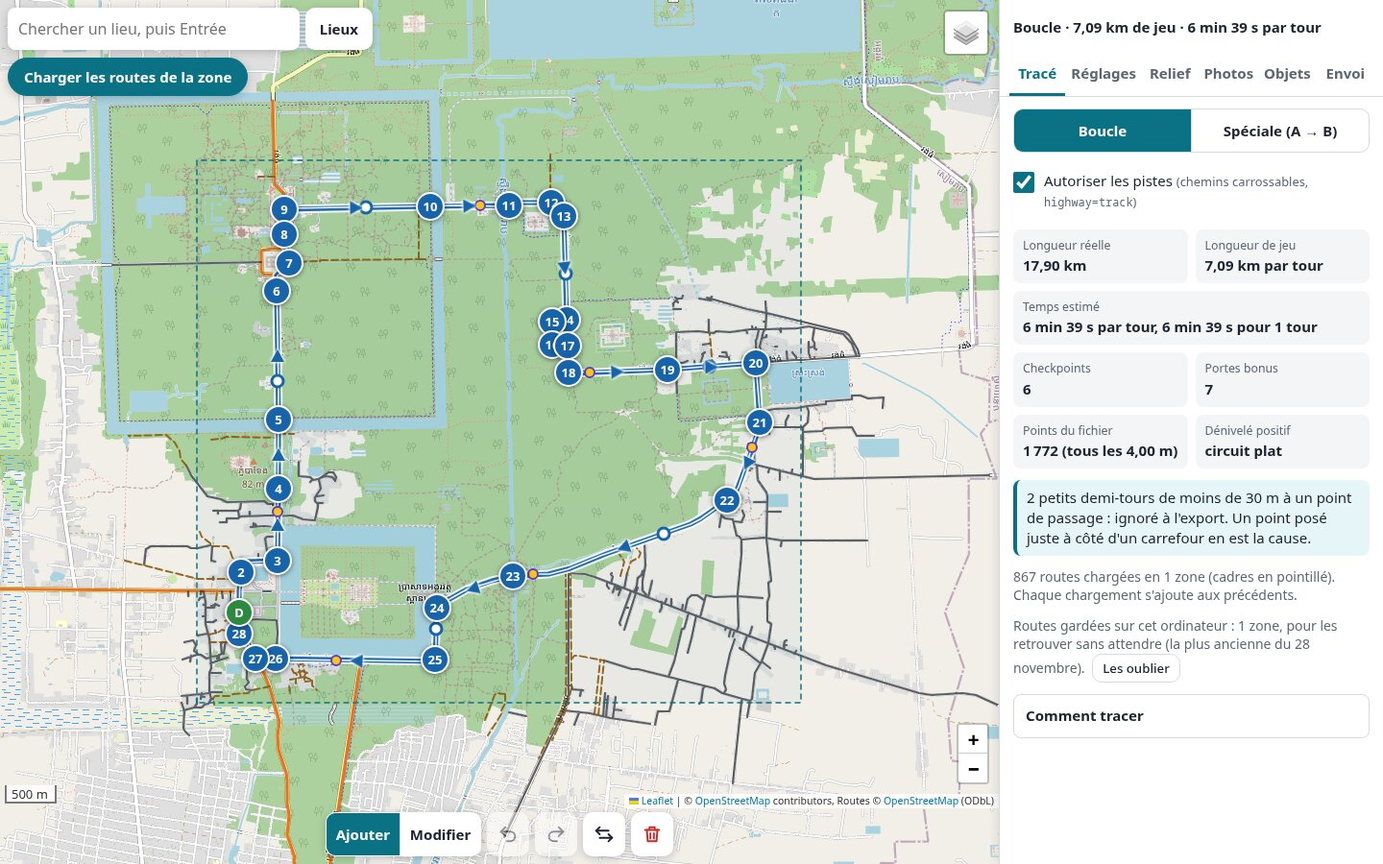
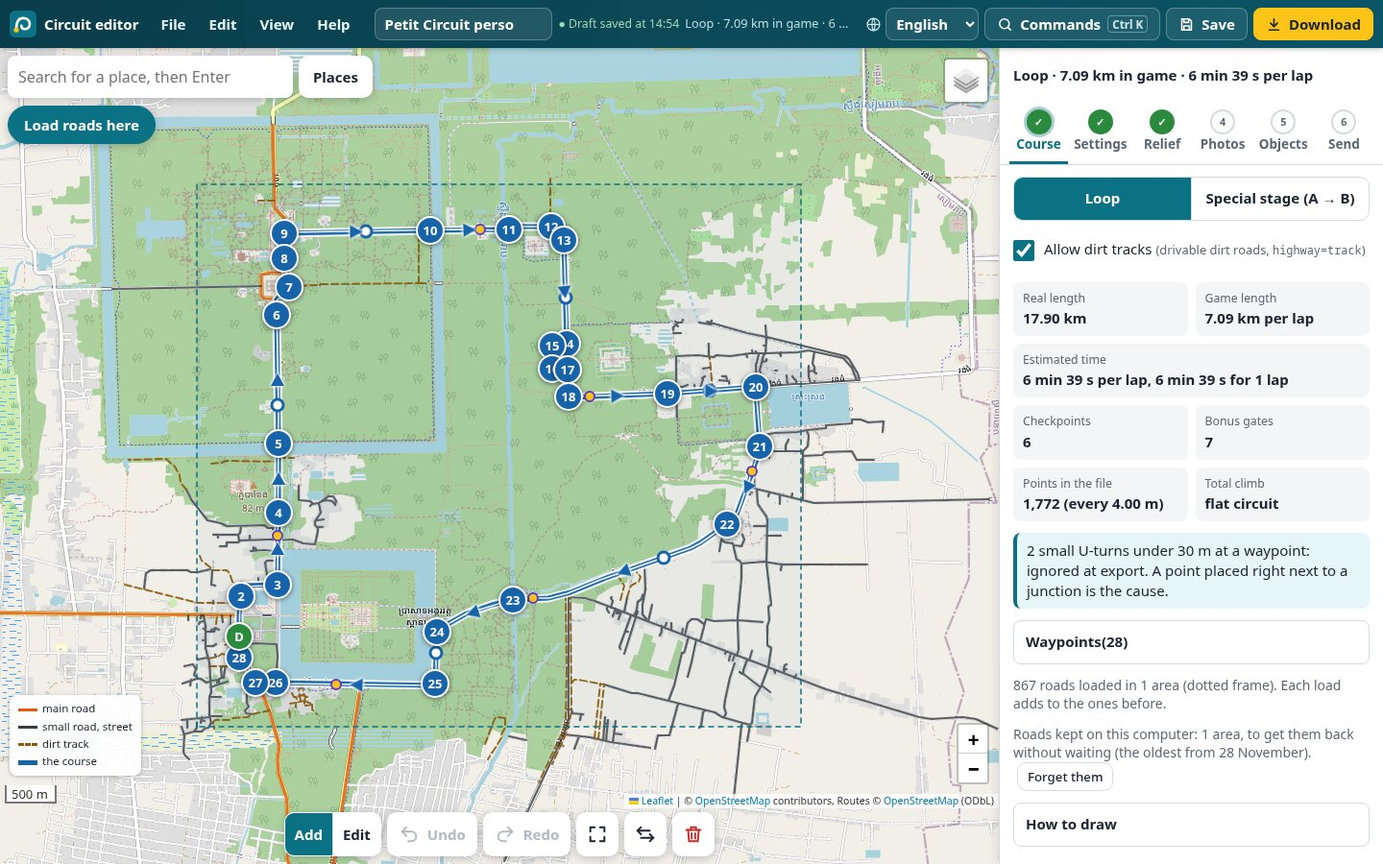
Circuit editor page: the editor in three languages, with its new screen
The editor merged this afternoon (PR #3) speaks French, English and
Khmer and has a menu bar, a command search, numbered steps, a list of
waypoints and a welcome card. The page says so in a new section, The
screen, and in a new Last change; the page file is now about 7,300
lines with i18n.js beside it. The three captures are taken again from
the published editor, in English, and a fourth shows it in Khmer.

diff --git a/projects/circuit-editor.html b/projects/circuit-editor.html
@@ -4,7 +4,7 @@
 <meta charset="UTF-8">
 <meta name="viewport" content="width=device-width, initial-scale=1.0">
 <meta name="theme-color" content="#080b12">
-<meta name="description" content="Circuit editor: a web page to draw a racing circuit on the real roads of OpenStreetMap and send it to 3D Buggy. The course follows the roads between the points you click, with the real relief, the real place's buildings, water and land cover, photos taken along the way and the game's 379 scenery objects placed by hand; one HTML file, no build step, 134 tests.">
+<meta name="description" content="Circuit editor: a web page to draw a racing circuit on the real roads of OpenStreetMap and send it to 3D Buggy. The course follows the roads between the points you click, with the real relief, the real place's buildings, water and land cover, photos taken along the way and the game's 379 scenery objects placed by hand; in French, English and Khmer, no build step, 134 tests.">
 <title data-en="Circuit editor, real roads for 3D Buggy — Chantrea Systems" data-fr="Éditeur de circuits, de vraies routes pour 3D Buggy — Chantrea Systems" data-km="កម្មវិធីគូរសៀគ្វី ផ្លូវពិតសម្រាប់ 3D Buggy — Chantrea Systems">Circuit editor, real roads for 3D Buggy — Chantrea Systems</title>
 <link rel="icon" type="image/svg+xml" href="../assets/logo/favicon.svg">
 <link rel="preconnect" href="https://fonts.googleapis.com">
@@ -24,17 +24,17 @@
 <div class="kicker"><span data-l="en">In development</span><span data-l="fr">En développement</span><span data-l="km">កំពុងអភិវឌ្ឍ</span> / 04</div>
 <h1><span data-l="en">Circuit editor</span><span data-l="fr">Éditeur de circuits</span><span data-l="km">កម្មវិធីគូរសៀគ្វី</span></h1>
 <div class="alias">tools/circuit-editor · <span data-l="en">for 3D Buggy</span><span data-l="fr">pour 3D Buggy</span><span data-l="km">សម្រាប់ 3D Buggy</span></div>
-<p class="lead" data-l="en">A web page to draw a racing circuit on the real roads of Cambodia and send it to the game. You click waypoints on the map; between them the course follows the shortest way along OpenStreetMap’s roads, then it is smoothed, given the real relief and written as a <code>.cambotrack.json</code> file that 3D Buggy builds and lets you race. The file can also carry what the real place looks like — its buildings, water and land cover, read from Overture Maps — photos taken along the way, and objects of the game’s own scenery placed by hand on the map: houses on stilts, palms, stalls, pagodas, tuk-tuks, 379 in all. One HTML file, no framework and no build step, made for a computer’s browser.</p>
-<p class="lead" data-l="fr">Une page web pour dessiner un circuit de course sur les vraies routes du Cambodge et l’envoyer au jeu. On clique des points de passage sur la carte ; entre eux, le tracé prend le plus court chemin par les routes d’OpenStreetMap, puis il est lissé, reçoit le relief réel et devient un fichier <code>.cambotrack.json</code> que 3D Buggy construit et fait courir. Le fichier peut aussi porter l’allure du lieu réel — ses bâtiments, son eau et la couverture du sol, lus dans Overture Maps —, des photos prises en chemin, et des objets du décor du jeu posés à la main sur la carte : maisons sur pilotis, palmiers, étals, pagodes, tuk-tuks, 379 en tout. Un seul fichier HTML, sans framework ni compilation, fait pour le navigateur d’un ordinateur.</p>
-<p class="lead" data-l="km">ទំព័រវិបមួយ សម្រាប់គូរសៀគ្វីប្រណាំង លើផ្លូវពិតនៃប្រទេសកម្ពុជា ហើយផ្ញើវាទៅហ្គេម។ អ្នកចុចចំណុចឆ្លងកាត់លើផែនទី ហើយរវាងចំណុចទាំងនោះ ផ្លូវប្រណាំងដើរតាមផ្លូវខ្លីបំផុត លើផ្លូវថ្នល់របស់ OpenStreetMap បន្ទាប់មកវាត្រូវបានធ្វើឱ្យរលោង ទទួលបានភូមិសាស្ត្រកម្ពស់ពិត ហើយសរសេរជាឯកសារ <code>.cambotrack.json</code> ដែល 3D Buggy សាងសង់ និងឱ្យអ្នកប្រណាំង។ ឯកសារនេះក៏អាចផ្ទុករូបរាងនៃទីកន្លែងពិត — អគារ ទឹក និងគម្របដីរបស់វា ដែលអានពី Overture Maps — រូបថតដែលថតតាមផ្លូវ និងវត្ថុនៃទេសភាពរបស់ហ្គេម ដែលដាក់ដោយដៃលើផែនទី៖ ផ្ទះលើសសរ ដើមត្នោត តូប វត្ត រ៉ឺម៉ក សរុប 379។ ឯកសារ HTML តែមួយ គ្មាន framework និងគ្មានការ compile ដែលធ្វើឡើងសម្រាប់ browser របស់កុំព្យូទ័រ។</p>
+<p class="lead" data-l="en">A web page to draw a racing circuit on the real roads of Cambodia and send it to the game. You click waypoints on the map; between them the course follows the shortest way along OpenStreetMap’s roads, then it is smoothed, given the real relief and written as a <code>.cambotrack.json</code> file that 3D Buggy builds and lets you race. The file can also carry what the real place looks like — its buildings, water and land cover, read from Overture Maps — photos taken along the way, and objects of the game’s own scenery placed by hand on the map: houses on stilts, palms, stalls, pagodas, tuk-tuks, 379 in all. It speaks French, English and Khmer; one HTML page with no framework and no build step, made for a computer’s browser.</p>
+<p class="lead" data-l="fr">Une page web pour dessiner un circuit de course sur les vraies routes du Cambodge et l’envoyer au jeu. On clique des points de passage sur la carte ; entre eux, le tracé prend le plus court chemin par les routes d’OpenStreetMap, puis il est lissé, reçoit le relief réel et devient un fichier <code>.cambotrack.json</code> que 3D Buggy construit et fait courir. Le fichier peut aussi porter l’allure du lieu réel — ses bâtiments, son eau et la couverture du sol, lus dans Overture Maps —, des photos prises en chemin, et des objets du décor du jeu posés à la main sur la carte : maisons sur pilotis, palmiers, étals, pagodes, tuk-tuks, 379 en tout. Il parle français, anglais et khmer ; une seule page HTML, sans framework ni compilation, faite pour le navigateur d’un ordinateur.</p>
+<p class="lead" data-l="km">ទំព័រវិបមួយ សម្រាប់គូរសៀគ្វីប្រណាំង លើផ្លូវពិតនៃប្រទេសកម្ពុជា ហើយផ្ញើវាទៅហ្គេម។ អ្នកចុចចំណុចឆ្លងកាត់លើផែនទី ហើយរវាងចំណុចទាំងនោះ ផ្លូវប្រណាំងដើរតាមផ្លូវខ្លីបំផុត លើផ្លូវថ្នល់របស់ OpenStreetMap បន្ទាប់មកវាត្រូវបានធ្វើឱ្យរលោង ទទួលបានភូមិសាស្ត្រកម្ពស់ពិត ហើយសរសេរជាឯកសារ <code>.cambotrack.json</code> ដែល 3D Buggy សាងសង់ និងឱ្យអ្នកប្រណាំង។ ឯកសារនេះក៏អាចផ្ទុករូបរាងនៃទីកន្លែងពិត — អគារ ទឹក និងគម្របដីរបស់វា ដែលអានពី Overture Maps — រូបថតដែលថតតាមផ្លូវ និងវត្ថុនៃទេសភាពរបស់ហ្គេម ដែលដាក់ដោយដៃលើផែនទី៖ ផ្ទះលើសសរ ដើមត្នោត តូប វត្ត រ៉ឺម៉ក សរុប 379។ វានិយាយភាសាបារាំង អង់គ្លេស និងខ្មែរ ជាទំព័រ HTML តែមួយ គ្មាន framework និងគ្មានការ compile ដែលធ្វើឡើងសម្រាប់ browser របស់កុំព្យូទ័រ។</p>
 <div class="tags"><span class="tag p">Web</span><span class="tag t" data-l="en">Games</span><span class="tag t" data-l="fr">Jeux</span><span class="tag t" data-l="km">ហ្គេម</span><span class="tag">JavaScript</span><span class="tag">Leaflet</span><span class="tag">OpenStreetMap</span><span class="tag">Overture Maps</span></div>
 <div class="actions"><a class="btn primary" href="../tools/circuit-editor/" target="_blank" rel="noopener"><span data-l="en">Open the editor</span><span data-l="fr">Ouvrir l’éditeur</span><span data-l="km">បើកកម្មវិធីគូរ</span> ↗</a><a class="btn secondary" href="https://github.com/stefan-cambodia/stefan-cambodia.github.io/tree/main/tools/circuit-editor" target="_blank" rel="noopener noreferrer"><span data-l="en">View the source</span><span data-l="fr">Voir le code</span><span data-l="km">មើលកូដ</span> ↗</a><a class="btn secondary" href="../history/circuit-editor.html"><span data-l="en">History</span><span data-l="fr">Historique</span><span data-l="km">ប្រវត្តិ</span> →</a></div>
 </div>
 
-<div class="shot"><img src="../assets/screenshots/circuit-editor/petit-circuit.jpg" width="1440" height="900" alt="The circuit editor with the Petit Circuit of Angkor: 28 waypoints on OpenStreetMap’s roads, 7.09 km of game a lap, its checkpoints, bonus gates and warnings in the side panel"></div>
+<div class="shot"><img src="../assets/screenshots/circuit-editor/petit-circuit.jpg" width="1440" height="900" alt="The circuit editor in English with the Petit Circuit of Angkor: the menu bar, 28 waypoints on OpenStreetMap’s roads, the legend of the roads, and in the panel the six numbered steps, 7.09 km of game a lap, checkpoints, bonus gates and warnings"></div>
 
 <div class="stats">
-<div class="stat"><strong>1</strong><span data-l="en">HTML file, no build step</span><span data-l="fr">Fichier HTML, sans compilation</span><span data-l="km">ឯកសារ HTML គ្មានការ compile</span></div>
+<div class="stat"><strong>3</strong><span data-l="en">Languages: French, English, Khmer</span><span data-l="fr">Langues : français, anglais, khmer</span><span data-l="km">ភាសា៖ បារាំង អង់គ្លេស ខ្មែរ</span></div>
 <div class="stat"><strong>379</strong><span data-l="en">Game objects to place</span><span data-l="fr">Objets du jeu à poser</span><span data-l="km">វត្ថុរបស់ហ្គេម សម្រាប់ដាក់</span></div>
 <div class="stat"><strong>−0.15 %</strong><span data-l="en">Petit Circuit redrawn</span><span data-l="fr">Petit Circuit redessiné</span><span data-l="km">Petit Circuit គូរឡើងវិញ</span></div>
 <div class="stat"><strong>134</strong><span data-l="en">Tests, and one in a browser</span><span data-l="fr">Tests, et un dans un navigateur</span><span data-l="km">ការធ្វើតេស្ត និងមួយក្នុង browser</span></div>
@@ -57,6 +57,13 @@
 <tr><td>Send</td><td>« Envoyer au jeu » writes the file into <code>tracks/</code> on this site and updates the catalogue, through GitHub’s API with a fine-grained token limited to this one repository; the token is never written into a file. A circuit can also be downloaded, copied, and opened again later: if the map has not changed, it comes out the same, hash included.</td></tr>
 <tr><td>Play</td><td>In 3D Buggy, « Circuits perso → Actualiser ». A first publication showed on both addresses the game reads in under a minute, the site’s build included.</td></tr>
 </table></div>
+</section>
+
+<section>
+<div class="kicker">The screen</div>
+<h2>Menus, commands and six steps.</h2>
+<p>A menu bar holds File, Edit, View and Help, with the circuit’s name, Save and Download beside them, and <kbd>Ctrl</kbd>+<kbd>K</kbd> opens a command search: type what you want to do, « satellite » or « download », then Enter. The panel’s steps are numbered from 1, Course, to 6, Send, and each is ticked once done; « Next » leads from one to the other, and Send first says whether the circuit is ready or what is missing. On an empty map a welcome card gives the three first gestures; once the roads are there, a line says where to click and a legend gives the colours of the roads. The waypoints are listed with their distance from the start, a right click on the map offers what can be done at that spot, a message that can be undone carries its own Undo button, and <kbd>?</kbd> shows every shortcut.</p>
+<p>The interface exists in French, English and Khmer, chosen from the globe in the bar or taken from the browser’s language; the names of the 379 objects and their families are translated too, and searching finds the words of the chosen language. The file written does not change with the language.</p>
 </section>
 
 <section>
@@ -108,6 +115,13 @@
 </section>
 
 <section>
+<div class="kicker">L’écran</div>
+<h2>Des menus, des commandes et six étapes.</h2>
+<p>Une barre de menus tient Fichier, Édition, Affichage et Aide, avec à côté le nom du circuit, Garder et Télécharger, et <kbd>Ctrl</kbd>+<kbd>K</kbd> ouvre une recherche de commandes : taper ce qu’on veut faire, « satellite » ou « télécharger », puis Entrée. Les étapes du panneau sont numérotées de 1, Tracé, à 6, Envoi, et chacune est cochée une fois faite ; « Suivant » mène de l’une à l’autre, et l’Envoi dit d’abord si le circuit est prêt ou ce qui manque. Sur une carte vide, une carte d’accueil donne les trois premiers gestes ; une fois les routes là, une ligne dit où cliquer et une légende donne les couleurs des routes. Les points de passage sont listés avec leur distance depuis le départ, un clic droit sur la carte propose ce qu’on peut faire à cet endroit, un message qui peut être annulé porte son propre bouton Annuler, et <kbd>?</kbd> montre tous les raccourcis.</p>
+<p>L’interface existe en français, en anglais et en khmer, choisie depuis le globe de la barre ou prise dans la langue du navigateur ; les noms des 379 objets et de leurs familles sont traduits aussi, et la recherche trouve les mots de la langue choisie. Le fichier écrit ne change pas avec la langue.</p>
+</section>
+
+<section>
 <div class="kicker">Ce que porte un circuit</div>
 <h2>La route, et le lieu autour.</h2>
 <p><b>Le relief.</b> Une altitude tous les 30 mètres réels depuis Open-Meteo, lissée et aux pentes tenues sous 30 %. Le modèle est un modèle de surface à 90 m, qui ajoute à la route les arbres, les toits et les versants voisins ; « Lissage du relief » retire les bosses et les creux de moins de 300 ou 600 m. Sur le tour de la colline de Kep, au niveau de la mer ou presque, le dénivelé passe de 198 m à 44 m ; sur la montée au Bokor, une vraie, de 1 318 m à 1 055 m.</p>
@@ -156,6 +170,13 @@
 </section>
 
 <section>
+<div class="kicker">អេក្រង់</div>
+<h2>ម៉ឺនុយ ពាក្យបញ្ជា និងប្រាំមួយជំហាន។</h2>
+<p>របារម៉ឺនុយមាន ឯកសារ កែសម្រួល បង្ហាញ និងជំនួយ ជាមួយឈ្មោះសៀគ្វី រក្សាទុក និងទាញយក នៅក្បែរ ហើយ <kbd>Ctrl</kbd>+<kbd>K</kbd> បើកការស្វែងរកពាក្យបញ្ជា៖ វាយអ្វីដែលអ្នកចង់ធ្វើ ដូចជា «satellite» ឬ «download» រួចចុច Enter។ ជំហាននៃផ្ទាំងចំហៀង មានលេខពី 1 ខ្សែផ្លូវ ដល់ 6 ផ្ញើ ហើយនីមួយៗត្រូវបានគូសធីក នៅពេលធ្វើរួច «បន្ទាប់» នាំពីជំហានមួយទៅជំហានមួយទៀត ហើយជំហានផ្ញើ ប្រាប់ជាមុនថា តើសៀគ្វីរួចរាល់ ឬខ្វះអ្វី។ លើផែនទីទទេ កាតស្វាគមន៍មួយ ផ្តល់សកម្មភាពបីដំបូង ហើយនៅពេលផ្លូវបានផ្ទុក បន្ទាត់មួយប្រាប់កន្លែងដែលត្រូវចុច និងមានតារាងសម្គាល់ពណ៌នៃផ្លូវ។ ចំណុចឆ្លងកាត់ត្រូវបានរាយ ជាមួយចម្ងាយរបស់វាពីចំណុចចាប់ផ្តើម ការចុចខាងស្តាំលើផែនទី ស្នើអ្វីដែលអាចធ្វើបាននៅកន្លែងនោះ សារដែលអាចបោះបង់បាន មានប៊ូតុងត្រឡប់ក្រោយផ្ទាល់ខ្លួន ហើយ <kbd>?</kbd> បង្ហាញផ្លូវកាត់ទាំងអស់។</p>
+<p>ផ្ទាំងប្រើប្រាស់មានជាភាសាបារាំង អង់គ្លេស និងខ្មែរ ដែលជ្រើសពីរូបផែនដីនៅលើរបារ ឬយកតាមភាសារបស់ browser ឈ្មោះនៃវត្ថុ 379 និងក្រុមរបស់វា ក៏ត្រូវបានបកប្រែដែរ ហើយការស្វែងរកស្គាល់ពាក្យនៃភាសាដែលបានជ្រើស។ ឯកសារដែលសរសេរចេញ មិនផ្លាស់ប្តូរតាមភាសាទេ។</p>
+</section>
+
+<section>
 <div class="kicker">អ្វីដែលសៀគ្វីមួយផ្ទុក</div>
 <h2>ផ្លូវ និងទីកន្លែងជុំវិញវា។</h2>
 <p><b>កម្ពស់ដី។</b> កម្ពស់មួយរៀងរាល់ 30 ម៉ែត្រពិត ពី Open-Meteo ដែលធ្វើឱ្យរលោង និងរក្សាជម្រាលក្រោម 30 %។ គំរូនេះជាគំរូផ្ទៃខាងលើ 90 ម៉ែត្រ ដែលបន្ថែមដើមឈើ ដំបូលផ្ទះ និងជម្រាលភ្នំក្បែរនោះ ទៅលើផ្លូវ ហើយ «Lissage du relief» ដកចេញនូវទួល និងរណ្តៅដែលខ្លីជាង 300 ឬ 600 ម៉ែត្រ។ លើផ្លូវជុំវិញភ្នំកែប ដែលស្ទើរតែស្មើនឹងនីវ៉ូសមុទ្រ កម្ពស់ឡើងសរុបធ្លាក់ពី 198 ម៉ែត្រ មក 44 ម៉ែត្រ ហើយលើផ្លូវឡើងភ្នំបូកគោ ដែលជាផ្លូវឡើងពិត ពី 1 318 ម៉ែត្រ មក 1 055 ម៉ែត្រ។</p>
@@ -187,12 +208,13 @@
 <section>
 <div class="kicker"><span data-l="en">Screenshots</span><span data-l="fr">Captures d’écran</span><span data-l="km">រូបថតអេក្រង់</span></div>
 <h2><span data-l="en">The Petit Circuit of Angkor.</span><span data-l="fr">Le Petit Circuit d’Angkor.</span><span data-l="km">Petit Circuit នៃអង្គរ។</span></h2>
-<p data-l="en">Captures of 28 November 2026, the editor as published, with the Petit Circuit of the catalogue opened from its file; the interface is in French. The objects near Ta Keo were placed for the capture and are not in the published circuit.</p>
-<p data-l="fr">Captures du 28 novembre 2026, l’éditeur tel qu’il est publié, avec le Petit Circuit du catalogue ouvert depuis son fichier. Les objets près de Ta Keo ont été posés pour la capture et ne sont pas dans le circuit publié.</p>
-<p data-l="km">រូបថតអេក្រង់ថ្ងៃទី 28 ខែវិច្ឆិកា ឆ្នាំ 2026 កម្មវិធីគូរដូចដែលបានផ្សព្វផ្សាយ ជាមួយ Petit Circuit នៃបញ្ជី ដែលបើកពីឯកសាររបស់វា ផ្ទាំងប្រើប្រាស់ជាភាសាបារាំង។ វត្ថុនៅជិតប្រាសាទតាកែវ ត្រូវបានដាក់សម្រាប់រូបថតនេះ ហើយមិនមាននៅក្នុងសៀគ្វីដែលបានផ្សព្វផ្សាយទេ។</p>
+<p data-l="en">Captures of 28 November 2026, the editor as published, with the Petit Circuit of the catalogue opened from its file: in English, and the last one in Khmer. The objects near Ta Keo were placed for the capture and are not in the published circuit.</p>
+<p data-l="fr">Captures du 28 novembre 2026, l’éditeur tel qu’il est publié, avec le Petit Circuit du catalogue ouvert depuis son fichier : en anglais, et la dernière en khmer. Les objets près de Ta Keo ont été posés pour la capture et ne sont pas dans le circuit publié.</p>
+<p data-l="km">រូបថតអេក្រង់ថ្ងៃទី 28 ខែវិច្ឆិកា ឆ្នាំ 2026 កម្មវិធីគូរដូចដែលបានផ្សព្វផ្សាយ ជាមួយ Petit Circuit នៃបញ្ជី ដែលបើកពីឯកសាររបស់វា៖ ជាភាសាអង់គ្លេស ហើយរូបចុងក្រោយជាភាសាខ្មែរ។ វត្ថុនៅជិតប្រាសាទតាកែវ ត្រូវបានដាក់សម្រាប់រូបថតនេះ ហើយមិនមាននៅក្នុងសៀគ្វីដែលបានផ្សព្វផ្សាយទេ។</p>
 <div class="gallery landscape">
-<a href="../assets/screenshots/circuit-editor/objects.jpg" target="_blank"><img src="../assets/screenshots/circuit-editor/objects.jpg" width="1440" height="900" alt="The Objects tab near Ta Keo: a pagoda, a row of palms and two houses on stilts placed beside the course, each with its footprint at its real size and its front arrow, the library of 379 objects in the panel" loading="lazy"></a>
-<a href="../assets/screenshots/circuit-editor/satellite.jpg" target="_blank"><img src="../assets/screenshots/circuit-editor/satellite.jpg" width="1440" height="900" alt="The whole Petit Circuit on the satellite layer, with the Settings tab: name, identifier, games aimed at, the real place’s scenery, laps, scale and width" loading="lazy"></a>
+<a href="../assets/screenshots/circuit-editor/objects.jpg" target="_blank"><img src="../assets/screenshots/circuit-editor/objects.jpg" width="1440" height="900" alt="The Objects step near Ta Keo: a pagoda, a row of palms and two houses on stilts placed beside the course, each with its footprint at its real size and its front arrow; in the panel, the objects used recently and the library of 379" loading="lazy"></a>
+<a href="../assets/screenshots/circuit-editor/satellite.jpg" target="_blank"><img src="../assets/screenshots/circuit-editor/satellite.jpg" width="1440" height="900" alt="The whole Petit Circuit on the satellite layer, with the Settings step: name, laps, scale, games aimed at, the real place’s scenery and author, the advanced settings folded away" loading="lazy"></a>
+<a href="../assets/screenshots/circuit-editor/khmer.jpg" target="_blank"><img src="../assets/screenshots/circuit-editor/khmer.jpg" width="1440" height="900" alt="The same editor in Khmer: menus, steps, figures and the legend of the roads translated" loading="lazy"></a>
 </div>
 </section>
 
@@ -200,7 +222,7 @@
 <div class="kicker">Under the hood</div>
 <h2>How it is built.</h2>
 <div class="table-wrap"><table class="kv">
-<tr><td>The page</td><td>One HTML file of about 6,500 lines, plain JavaScript and CSS, with Leaflet 1.9.4 from cdnjs pinned by its SRI hash, and the objects library generated by 3D Buggy beside it. The computing core — graph, routing, resampling, relief, export, hash — is pure code without DOM or network, so that the tests can run it alone.</td></tr>
+<tr><td>The page</td><td>One HTML file of about 7,300 lines, plain JavaScript and CSS, with Leaflet 1.9.4 from cdnjs pinned by its SRI hash; beside it the objects library generated by 3D Buggy and <code>i18n.js</code>, the English and Khmer of every text the page shows, French being the source. The browser test counts the texts left in French in the other two: none today. The computing core — graph, routing, resampling, relief, export, hash — is pure code without DOM or network, so that the tests can run it alone.</td></tr>
 <tr><td>Routing</td><td>A graph of OpenStreetMap’s roads, a grid index and Dijkstra’s shortest path, with one rule: no U-turn at a waypoint unless no other way is 500 m shorter. A local tangent plane through WGS84’s ECEF coordinates projects the course, and its inverse brings a file back onto the map.</td></tr>
 <tr><td>The file</td><td><code>.cambotrack.json</code>, version 1, described in <code>FORMAT.md</code> with a JSON Schema; a SHA-256 over a canonical text, written in pure JavaScript and checked against Node’s, that the games recompute. Photos, scenery and objects stay out of the hash: the road is the same with or without them.</td></tr>
 <tr><td>Scenery</td><td>Overture Maps’ PMTiles archives read by HTTP range requests and their vector tiles decoded in the page: two tiles and half a megabyte for a town circuit, in two seconds.</td></tr>
@@ -213,7 +235,7 @@
 <div class="kicker">Sous le capot</div>
 <h2>Comment c’est construit.</h2>
 <div class="table-wrap"><table class="kv">
-<tr><td>La page</td><td>Un fichier HTML d’environ 6 500 lignes, JavaScript et CSS natifs, avec Leaflet 1.9.4 depuis cdnjs épinglé par son empreinte SRI, et la bibliothèque des objets produite par 3D Buggy à côté. Le cœur de calcul — graphe, routage, rééchantillonnage, relief, export, hash — est du code pur, sans DOM ni réseau, pour que les tests puissent l’exécuter seul.</td></tr>
+<tr><td>La page</td><td>Un fichier HTML d’environ 7 300 lignes, JavaScript et CSS natifs, avec Leaflet 1.9.4 depuis cdnjs épinglé par son empreinte SRI ; à côté, la bibliothèque des objets produite par 3D Buggy et <code>i18n.js</code>, l’anglais et le khmer de chaque texte que montre la page, le français en étant la source. Le test du navigateur compte les textes restés en français dans les deux autres : aucun aujourd’hui. Le cœur de calcul — graphe, routage, rééchantillonnage, relief, export, hash — est du code pur, sans DOM ni réseau, pour que les tests puissent l’exécuter seul.</td></tr>
 <tr><td>Routage</td><td>Un graphe des routes d’OpenStreetMap, un index en grille et le plus court chemin de Dijkstra, avec une règle : pas de demi-tour à un point de passage, sauf si aucun autre chemin n’est plus court de 500 m. Un plan tangent local, par les coordonnées ECEF de WGS84, projette le tracé, et son inverse ramène un fichier sur la carte.</td></tr>
 <tr><td>Le fichier</td><td><code>.cambotrack.json</code>, version 1, décrit dans <code>FORMAT.md</code> avec un schéma JSON ; un SHA-256 sur un texte canonique, écrit en JavaScript pur et vérifié contre celui de Node, que les jeux recalculent. Photos, décor et objets restent hors du hash : la route est la même avec ou sans eux.</td></tr>
 <tr><td>Décor</td><td>Les archives PMTiles d’Overture Maps lues par requêtes HTTP « Range » et leurs tuiles vectorielles décodées dans la page : deux tuiles et un demi-mégaoctet pour un circuit de ville, en deux secondes.</td></tr>
@@ -226,7 +248,7 @@
 <div class="kicker">ផ្នែកបច្ចេកទេស</div>
 <h2>របៀបដែលវាត្រូវបានបង្កើត។</h2>
 <div class="table-wrap"><table class="kv">
-<tr><td>ទំព័រ</td><td>ឯកសារ HTML តែមួយ ប្រហែល 6 500 បន្ទាត់ JavaScript និង CSS ធម្មតា ជាមួយ Leaflet 1.9.4 ពី cdnjs ដែលខ្ទាស់ដោយ hash SRI របស់វា និងបណ្ណាល័យវត្ថុ ដែលបង្កើតដោយ 3D Buggy នៅក្បែរវា។ ស្នូលគណនា — ក្រាហ្វ ការរកផ្លូវ ការយកគំរូឡើងវិញ កម្ពស់ដី ការនាំចេញ hash — គឺជាកូដសុទ្ធ គ្មាន DOM និងគ្មានបណ្តាញ ដើម្បីឱ្យការធ្វើតេស្តអាចដំណើរការវាតែឯងបាន។</td></tr>
+<tr><td>ទំព័រ</td><td>ឯកសារ HTML តែមួយ ប្រហែល 7 300 បន្ទាត់ JavaScript និង CSS ធម្មតា ជាមួយ Leaflet 1.9.4 ពី cdnjs ដែលខ្ទាស់ដោយ hash SRI របស់វា ហើយនៅក្បែរវា មានបណ្ណាល័យវត្ថុ ដែលបង្កើតដោយ 3D Buggy និង <code>i18n.js</code> ដែលជាភាសាអង់គ្លេស និងខ្មែរ នៃអត្ថបទនីមួយៗដែលទំព័របង្ហាញ ដោយភាសាបារាំងជាប្រភព។ ការធ្វើតេស្តក្នុង browser រាប់អត្ថបទដែលនៅជាភាសាបារាំង ក្នុងភាសាពីរផ្សេងទៀត៖ គ្មានទេនៅថ្ងៃនេះ។ ស្នូលគណនា — ក្រាហ្វ ការរកផ្លូវ ការយកគំរូឡើងវិញ កម្ពស់ដី ការនាំចេញ hash — គឺជាកូដសុទ្ធ គ្មាន DOM និងគ្មានបណ្តាញ ដើម្បីឱ្យការធ្វើតេស្តអាចដំណើរការវាតែឯងបាន។</td></tr>
 <tr><td>ការរកផ្លូវ</td><td>ក្រាហ្វនៃផ្លូវរបស់ OpenStreetMap លិបិក្រមក្រឡា និងផ្លូវខ្លីបំផុតរបស់ Dijkstra ជាមួយច្បាប់មួយ៖ គ្មានការបកក្រោយនៅចំណុចឆ្លងកាត់ លើកលែងតែគ្មានផ្លូវផ្សេងខ្លីជាង 500 ម៉ែត្រ។ ប្លង់ tangent ក្នុងតំបន់ តាមរយៈកូអរដោនេ ECEF នៃ WGS84 បញ្ចាំងផ្លូវប្រណាំង ហើយការបញ្ច្រាសរបស់វា នាំឯកសារមកលើផែនទីវិញ។</td></tr>
 <tr><td>ឯកសារ</td><td><code>.cambotrack.json</code> កំណែទី 1 ដែលពិពណ៌នាក្នុង <code>FORMAT.md</code> ជាមួយ JSON Schema និង SHA-256 លើអត្ថបទ canonical ដែលសរសេរជា JavaScript សុទ្ធ និងផ្ទៀងផ្ទាត់ជាមួយរបស់ Node ដែលហ្គេមគណនាឡើងវិញ។ រូបថត ទេសភាព និងវត្ថុ នៅក្រៅ hash៖ ផ្លូវនៅដដែល ទោះមាន ឬគ្មានវា។</td></tr>
 <tr><td>ទេសភាព</td><td>បណ្ណសារ PMTiles របស់ Overture Maps ដែលអានដោយសំណើ HTTP «Range» ហើយក្រឡា vector របស់វា ត្រូវបានបកស្រាយនៅក្នុងទំព័រ៖ ក្រឡាពីរ និងកន្លះមេកាបៃ សម្រាប់សៀគ្វីក្នុងក្រុង ក្នុងរយៈពេលពីរវិនាទី។</td></tr>
@@ -237,9 +259,10 @@
 
 <section class="changes" data-l="en">
 <div class="kicker">Last changes</div>
-<h2>Published, with the place around the road.</h2>
+<h2>Three languages, menus and numbered steps.</h2>
 <p class="changes-note">A summary of the latest commits in this site’s repository, up to 28 November 2026.</p>
 <ol class="changelog">
+<li><time datetime="2026-11-28">28 Nov 2026</time><div><b>French, English and Khmer, and a new screen</b><p>The interface is translated into English and Khmer, the 379 objects’ names included, chosen from a globe in the bar. A menu bar, a command search (Ctrl+K) and shortcuts; numbered steps ticked once done, with Next and a check that the circuit is ready before sending; a welcome card, a line that says where to click and a legend of the roads; the list of waypoints with their distances; a menu at the spot on a right click and Undo inside the message; simpler settings with the rest under Advanced settings.</p></div></li>
 <li><time datetime="2026-11-28">28 Nov 2026</time><div><b>The editor published, and its scenery in the game</b><p>The editor’s branch is merged into the site’s <code>main</code>: the page online now has the photos, the scenery, the objects and the altitudes kept on the computer. The same day, 3D Buggy’s <code>main</code> receives the scenery and objects, which it builds where the file puts them.</p></div></li>
 <li><time datetime="2026-11-28">28 Nov 2026</time><div><b>The game’s objects, placed by hand</b><p>A library of the game’s scenery objects with thumbnails rendered by its engine, Cambodia first, grown to 379 with the places of worship, festivals, the village and the river, the street and six big town buildings. Objects are placed by click, in a straight row or along the course, turned, resized, duplicated and moved.</p></div></li>
 <li><time datetime="2026-11-28">28 Nov 2026</time><div><b>Photos, albums and the real place’s scenery</b><p>Photos with their GPS position, JPEG or HEIC, or a whole Google Photos album as a <code>.zip</code>, sorted into places and roles; a course proposed through them when none is drawn; and, on export, the buildings, water and land cover of the real place read from Overture Maps.</p></div></li>
@@ -252,9 +275,10 @@
 
 <section class="changes" data-l="fr">
 <div class="kicker">Derniers changements</div>
-<h2>Publié, avec le lieu autour de la route.</h2>
+<h2>Trois langues, des menus et des étapes numérotées.</h2>
 <p class="changes-note">Un résumé des derniers commits du dépôt de ce site, jusqu’au 28 novembre 2026.</p>
 <ol class="changelog">
+<li><time datetime="2026-11-28">28 nov. 2026</time><div><b>Français, anglais et khmer, et un nouvel écran</b><p>L’interface est traduite en anglais et en khmer, noms des 379 objets compris, au choix depuis un globe dans la barre. Une barre de menus, une recherche de commandes (Ctrl+K) et des raccourcis ; des étapes numérotées et cochées une fois faites, avec « Suivant » et une vérification que le circuit est prêt avant l’envoi ; une carte d’accueil, une ligne qui dit où cliquer et une légende des routes ; la liste des points de passage avec leurs distances ; un menu à l’endroit du clic droit et « Annuler » dans le message ; des réglages simplifiés, le reste sous « Réglages avancés ».</p></div></li>
 <li><time datetime="2026-11-28">28 nov. 2026</time><div><b>L’éditeur publié, et son décor dans le jeu</b><p>La branche de l’éditeur est fusionnée dans le <code>main</code> du site : la page en ligne a désormais les photos, le décor, les objets et les altitudes gardées sur l’ordinateur. Le même jour, le <code>main</code> de 3D Buggy reçoit le décor et les objets, qu’il construit là où le fichier les met.</p></div></li>
 <li><time datetime="2026-11-28">28 nov. 2026</time><div><b>Les objets du jeu, posés à la main</b><p>Une bibliothèque des objets de décor du jeu, avec des vignettes rendues par son moteur, le Cambodge en tête, portée à 379 avec les lieux de culte, les fêtes, le village et la rivière, la rue et six grands bâtiments de ville. Les objets se posent par clic, en ligne droite ou le long du tracé, se tournent, s’agrandissent, se dupliquent et se déplacent.</p></div></li>
 <li><time datetime="2026-11-28">28 nov. 2026</time><div><b>Photos, albums et décor du lieu réel</b><p>Des photos avec leur position GPS, en JPEG ou en HEIC, ou un album Google Photos entier en <code>.zip</code>, rangées en lieux et en rôles ; un tracé proposé à partir d’elles quand aucun n’est dessiné ; et, à l’export, les bâtiments, l’eau et la couverture du sol du lieu réel, lus dans Overture Maps.</p></div></li>
@@ -267,9 +291,10 @@
 
 <section class="changes" data-l="km">
 <div class="kicker">ការផ្លាស់ប្តូរចុងក្រោយ</div>
-<h2>បានផ្សព្វផ្សាយ ជាមួយទីកន្លែងជុំវិញផ្លូវ។</h2>
+<h2>បីភាសា ម៉ឺនុយ និងជំហានដែលមានលេខ។</h2>
 <p class="changes-note">សេចក្តីសង្ខេបនៃ commit ចុងក្រោយក្នុង repository នៃគេហទំព័រនេះ រហូតដល់ថ្ងៃទី 28 ខែវិច្ឆិកា ឆ្នាំ 2026។</p>
 <ol class="changelog">
+<li><time datetime="2026-11-28">28 វិច្ឆិកា 2026</time><div><b>ភាសាបារាំង អង់គ្លេស និងខ្មែរ និងអេក្រង់ថ្មី</b><p>ផ្ទាំងប្រើប្រាស់ត្រូវបានបកប្រែជាភាសាអង់គ្លេស និងខ្មែរ រួមទាំងឈ្មោះវត្ថុ 379 ដែលជ្រើសពីរូបផែនដីនៅលើរបារ។ របារម៉ឺនុយ ការស្វែងរកពាក្យបញ្ជា (Ctrl+K) និងផ្លូវកាត់ ជំហានដែលមានលេខ ហើយគូសធីកពេលធ្វើរួច ជាមួយ «បន្ទាប់» និងការពិនិត្យថា សៀគ្វីរួចរាល់មុនពេលផ្ញើ កាតស្វាគមន៍ បន្ទាត់ដែលប្រាប់កន្លែងត្រូវចុច និងតារាងសម្គាល់ផ្លូវ បញ្ជីចំណុចឆ្លងកាត់ ជាមួយចម្ងាយរបស់វា ម៉ឺនុយនៅកន្លែងចុចខាងស្តាំ និងប៊ូតុងត្រឡប់ក្រោយក្នុងសារ និងការកំណត់សាមញ្ញជាងមុន ដោយផ្នែកផ្សេងទៀតនៅក្រោម «ការកំណត់កម្រិតខ្ពស់»។</p></div></li>
 <li><time datetime="2026-11-28">28 វិច្ឆិកា 2026</time><div><b>កម្មវិធីគូរបានផ្សព្វផ្សាយ និងទេសភាពរបស់វាក្នុងហ្គេម</b><p>branch របស់កម្មវិធីគូរ ត្រូវបានបញ្ចូលទៅក្នុង <code>main</code> នៃគេហទំព័រ៖ ទំព័រលើអ៊ីនធឺណិត ឥឡូវមានរូបថត ទេសភាព វត្ថុ និងកម្ពស់ដែលរក្សាទុកលើកុំព្យូទ័រ។ នៅថ្ងៃដដែល <code>main</code> របស់ 3D Buggy ទទួលបានទេសភាព និងវត្ថុ ដែលវាសាងសង់នៅកន្លែងដែលឯកសារដាក់។</p></div></li>
 <li><time datetime="2026-11-28">28 វិច្ឆិកា 2026</time><div><b>វត្ថុរបស់ហ្គេម ដាក់ដោយដៃ</b><p>បណ្ណាល័យវត្ថុទេសភាពរបស់ហ្គេម ជាមួយរូបតូចៗដែលបង្ហាញដោយម៉ាស៊ីនរបស់វា កម្ពុជានៅខាងមុខ ដែលកើនដល់ 379 ជាមួយទីសក្ការៈ ពិធីបុណ្យ ភូមិ និងទន្លេ ផ្លូវ និងអគារធំៗប្រាំមួយក្នុងក្រុង។ វត្ថុត្រូវបានដាក់ដោយការចុច ជាជួរត្រង់ ឬតាមបណ្តោយផ្លូវប្រណាំង ហើយអាចបង្វិល ពង្រីក ចម្លង និងផ្លាស់ទី។</p></div></li>
 <li><time datetime="2026-11-28">28 វិច្ឆិកា 2026</time><div><b>រូបថត អាល់ប៊ុម និងទេសភាពនៃទីកន្លែងពិត</b><p>រូបថតដែលមានទីតាំង GPS ជា JPEG ឬ HEIC ឬអាល់ប៊ុម Google Photos ទាំងមូលជា <code>.zip</code> ដែលរៀបជាទីកន្លែង និងតួនាទី ផ្លូវប្រណាំងដែលស្នើពីវា ពេលមិនទាន់មានការគូរ ហើយពេលនាំចេញ អគារ ទឹក និងគម្របដីនៃទីកន្លែងពិត ដែលអានពី Overture Maps។</p></div></li>

diff --git a/index.html b/index.html
@@ -146,7 +146,7 @@ html[lang=km] .dev-status,html[lang=km] .dev-follow{font-size:12.5px;letter-spac
 <div class="dev-body"><span class="dev-status"><span class="dev-dot" aria-hidden="true"></span><span data-i18n="devEditorBadge">In development · published</span></span>
 <h3 data-i18n="devEditorName">Circuit editor</h3><div class="dev-alias">tools/circuit-editor · Web</div>
 <p data-i18n="devEditorText">Draw a circuit on the real roads of OpenStreetMap, with the real relief, the place’s buildings and the game’s 379 objects placed by hand, and send it to 3D Buggy.</p>
-<div class="dev-specs"><span>ONE HTML FILE</span><span>379 OBJECTS</span><span>134 TESTS</span><span>OSM · OVERTURE</span></div>
+<div class="dev-specs"><span>FR · EN · KM</span><span>379 OBJECTS</span><span>134 TESTS</span><span>OSM · OVERTURE</span></div>
 <div class="dev-follow"><span data-i18n="devEditorFollow">In this site’s repository · 28 Nov 2026</span></div>
 <div class="actions"><a class="btn primary" href="projects/circuit-editor.html"><span data-i18n="devPage">Project page</span> →</a><a class="btn secondary" href="history/circuit-editor.html"><span data-i18n="devHistory">History</span> →</a><a class="btn secondary" href="tools/circuit-editor/" target="_blank" rel="noopener"><span data-i18n="devEditorOpen">Open it</span> ↗</a></div>
 </div></article>
